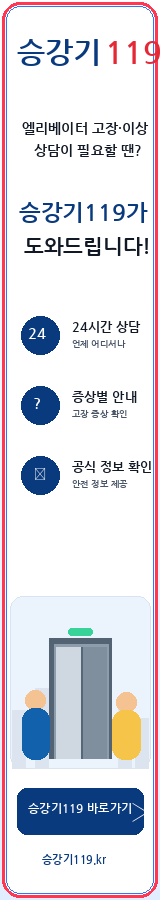
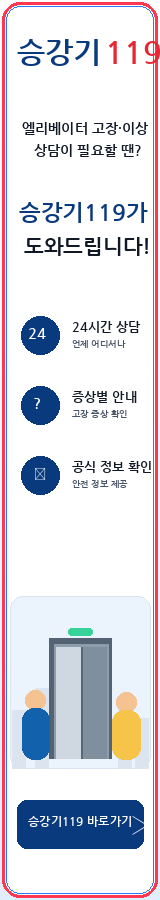
Add files via upload

Changed region(s): [[0.0938, 0.8711, 0.9062, 0.9644]]

diff --git a/styles.css b/styles.css
@@ -898,3 +898,46 @@ body > .create-close-fixed,
   .mobile-e119-wrap{padding:0 6px!important;margin-top:6px!important}
   .mobile-e119-wrap .e119-mobile-ad{height:96px!important;border-radius:14px!important}
 }
+
+
+/* v40 fixes: remove domain text from image assets and force mobile banner visibility */
+@media(max-width:900px){
+  #app{
+    overflow-y:auto!important;
+  }
+  .mobile-e119-wrap{
+    display:block!important;
+    visibility:visible!important;
+    opacity:1!important;
+    width:100%!important;
+    max-width:760px!important;
+    margin:8px auto 6px!important;
+    padding:0 10px!important;
+    position:relative!important;
+    z-index:100!important;
+  }
+  .mobile-e119-wrap .e119-mobile-ad{
+    display:block!important;
+    width:100%!important;
+    height:120px!important;
+    min-height:120px!important;
+    border-radius:16px!important;
+    background:url("e119_mobile_banner.png") center center / 100% 100% no-repeat!important;
+    box-shadow:0 0 0 2px rgba(255,61,85,.26),0 10px 24px rgba(0,0,0,.32)!important;
+  }
+  .side-ad-left{
+    display:none!important;
+  }
+}
+@media(max-width:480px){
+  .mobile-e119-wrap{
+    display:block!important;
+    padding:0 6px!important;
+    margin:6px auto 5px!important;
+  }
+  .mobile-e119-wrap .e119-mobile-ad{
+    height:96px!important;
+    min-height:96px!important;
+    border-radius:14px!important;
+  }
+}

diff --git a/index.html b/index.html
@@ -6,7 +6,7 @@
   <meta name="theme-color" content="#141122" />
   <title>랜덤키우기</title>
   <link rel="manifest" href="manifest.json" />
-  <link rel="stylesheet" href="styles.css?v=39-e119-clean-banner" />
+  <link rel="stylesheet" href="styles.css?v=40-e119-mobile-fixed" />
 </head>
 <body>
   <div id="app">